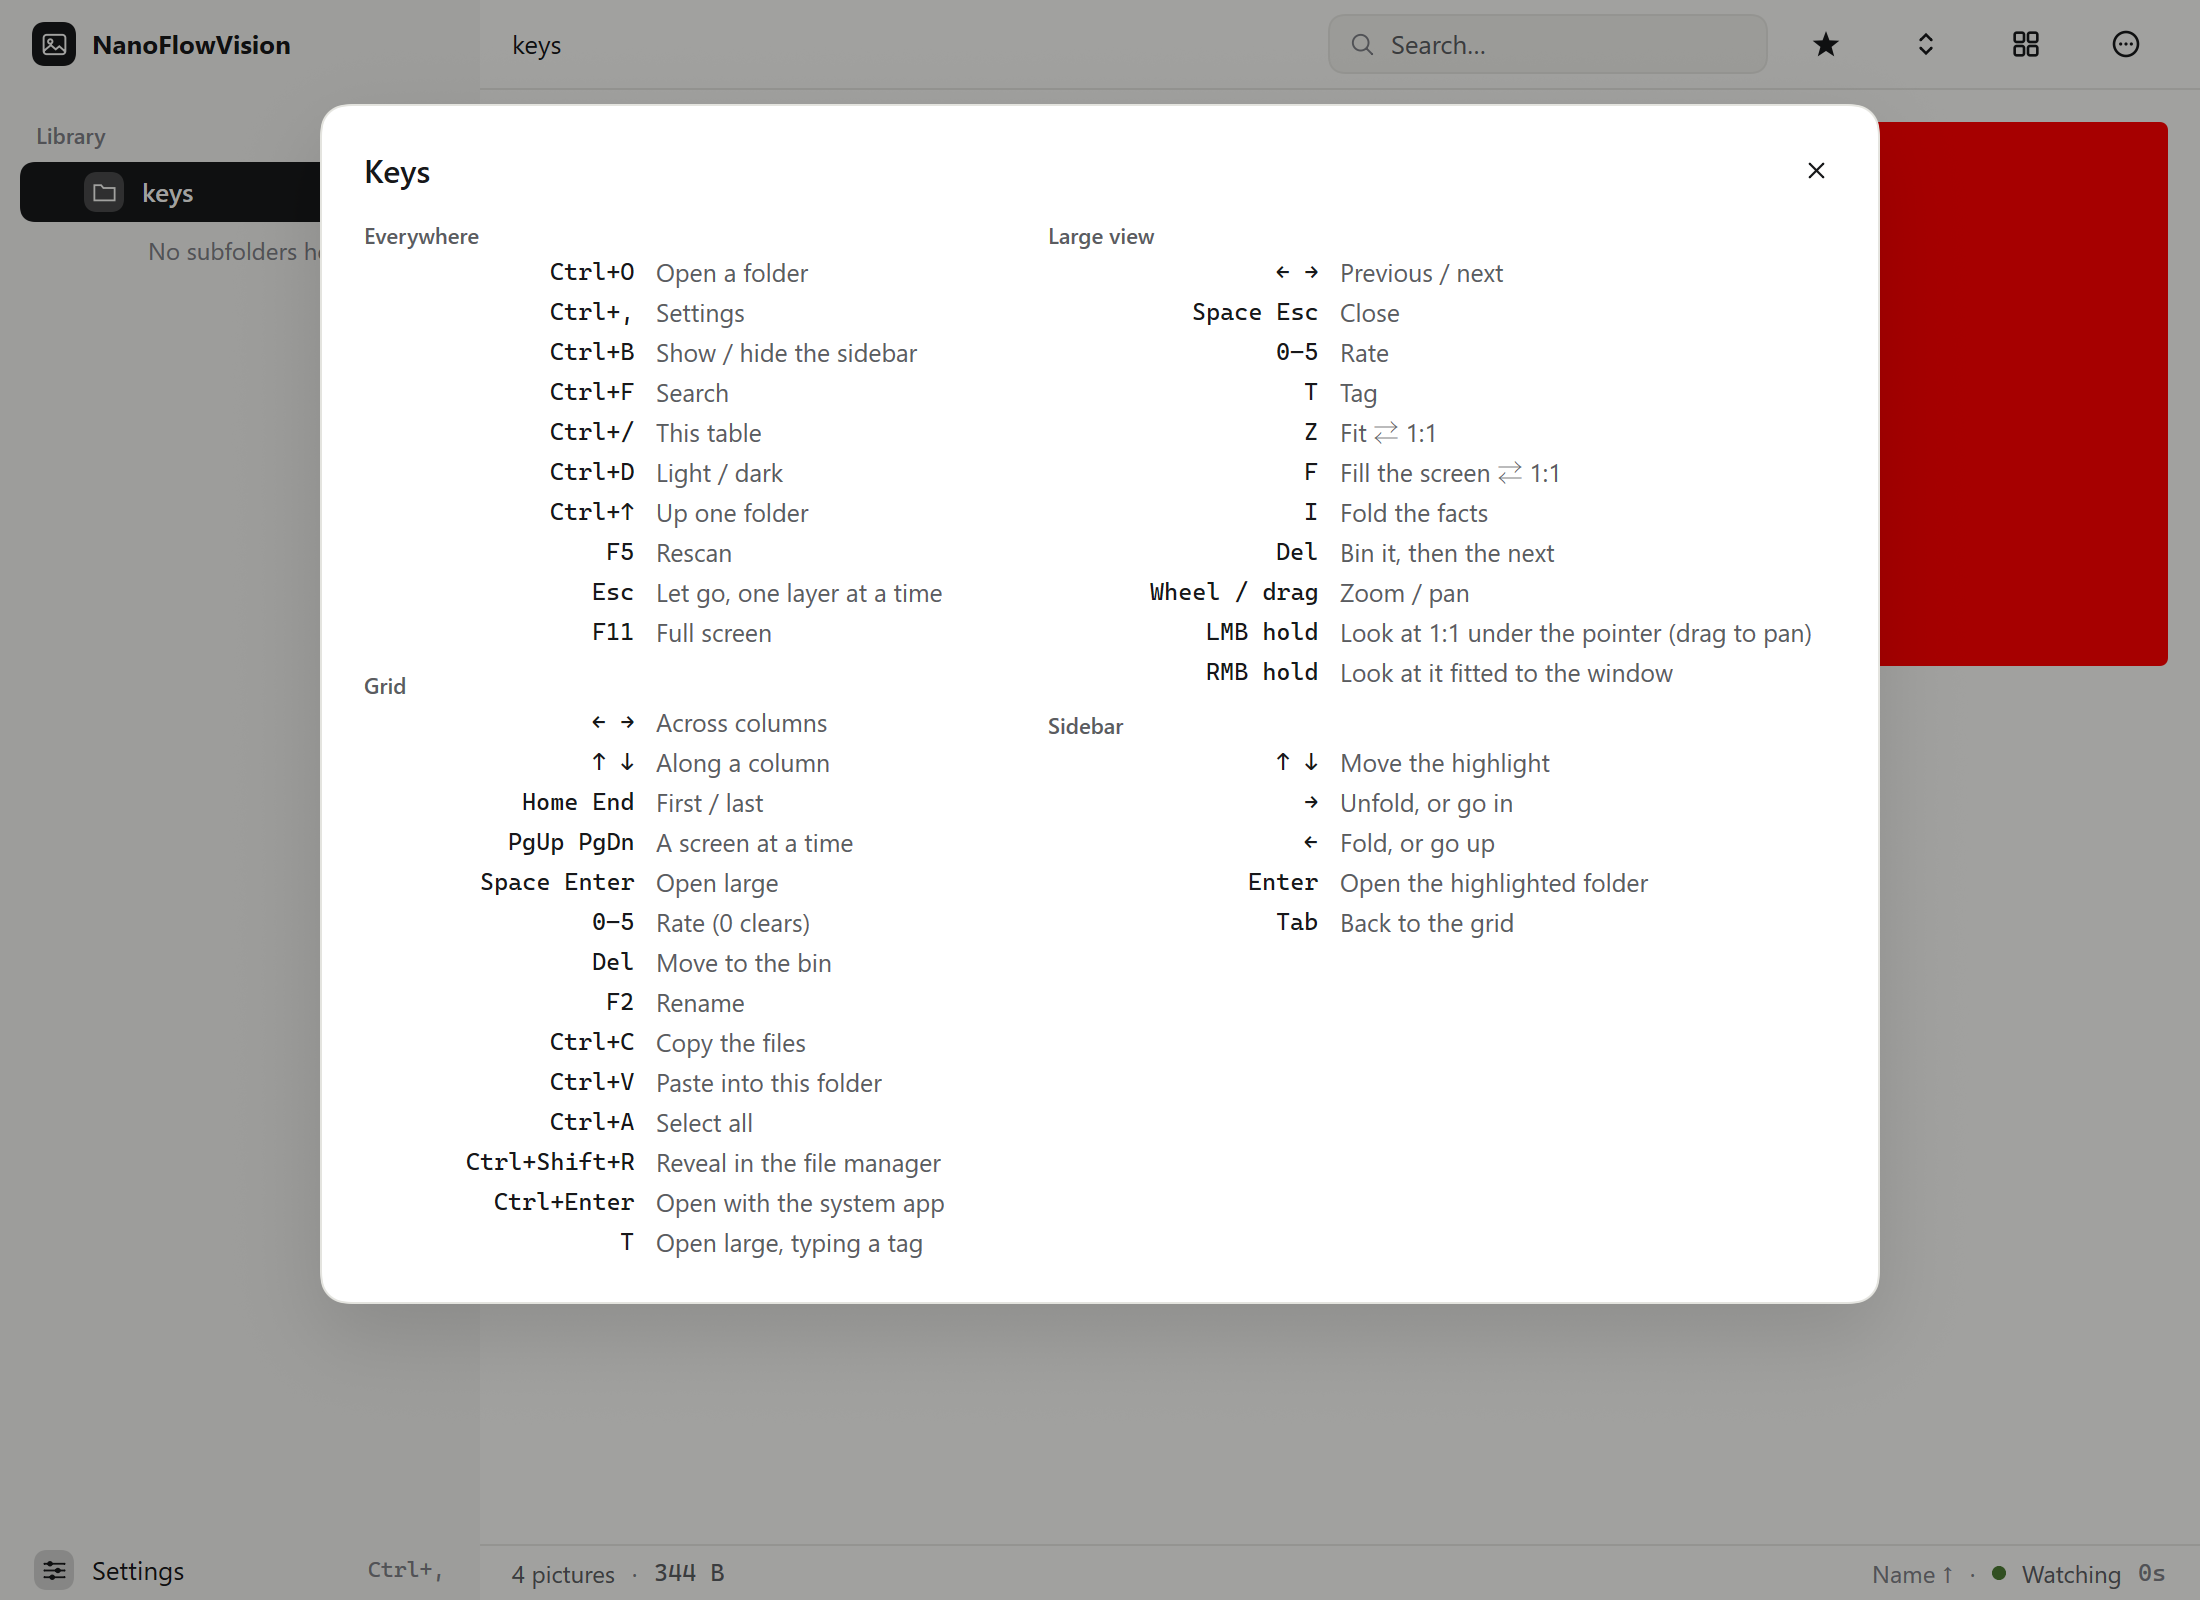
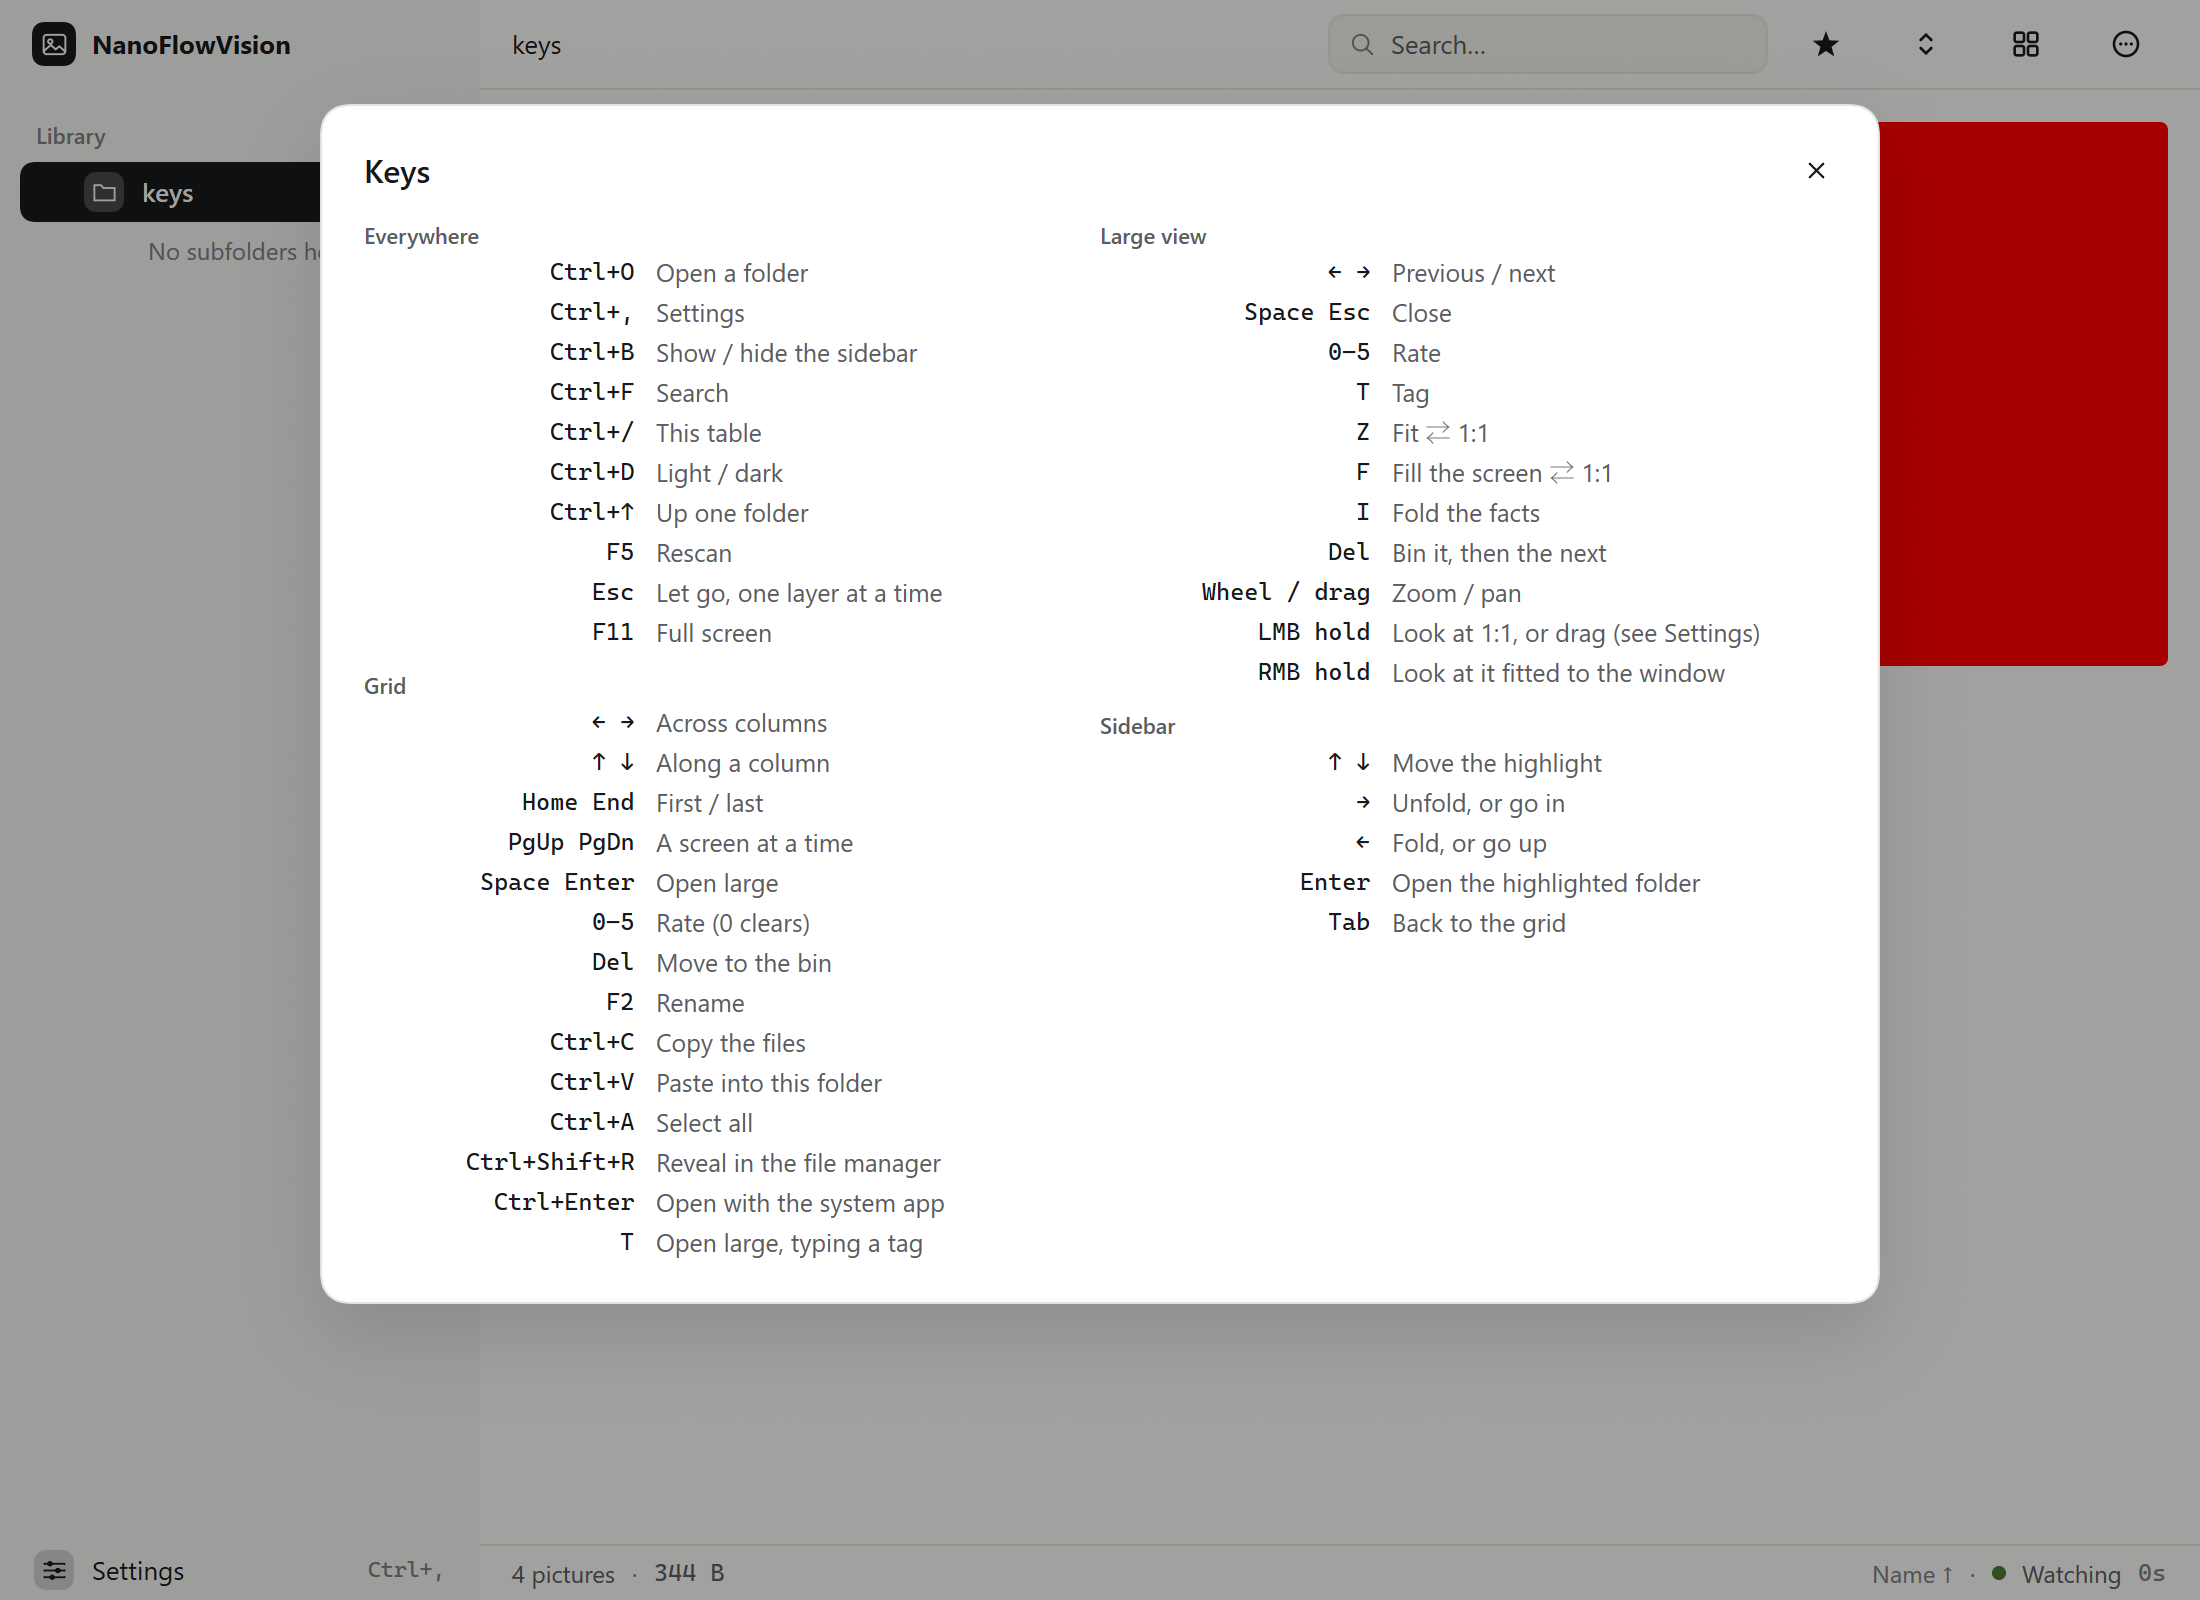
fix: the bar's chips take their clicks through the fade, and the hold is a setting
Two things: the buttons, and the choice they were missing.

The top bar's buttons were losing clicks in a narrow band
- The look stayed out of the bars by asking `chromeLive` -- the chrome at
  more than 0.35 opacity. But the bars are *painted* down to 0.02, and
  between the two the bar is on screen, its chips are clickable, and a
  press on one fell through to the photograph behind it. In full screen,
  where the chrome fades after a moment of quiet, that is most of a
  second: the buttons look alive and are dead.
- It now asks `chromeDrawn`, which is the same question the drawing asks.
- The bar's own height is 44 points whatever its opacity. The room grows
  under the fade -- that is why `topRoom` shrinks -- but the bar does not,
  and using the room's edge as the bar's edge moved the "stay out" line
  up out of the chips.

The left button's hold is now a setting
- Two readings of the same gesture, and they disagree: hold to look at
  1:1 (with a drag inside it), or hold to move the picture without
  changing its size. Both are worth having; nobody can have both at once
  from one button. `config.Hold { look, drag }`, in Settings as
  「大图按住左键 / Left button held, large view」, saved with the rest.
- The right button is not affected: it always fits the picture to the
  window, because it has no second job to share.

Tests: 131 green. Four new ones: the bar's chips take clicks while it is
fading and not only while it is live (the press stays out of the bar for
[…]

diff --git a/docs/redesign/01-ux.md b/docs/redesign/01-ux.md
@@ -210,16 +210,20 @@
 
 - **两个键在任何模式都生效**，包括滚轮缩到 2.5× 这种没有名字的状态。要问的是“原尺寸
   什么样、放回窗口什么样”，这个问题和滚轮把画面留在哪儿无关。
-- **按下即看**。两个键都在按下的那一帧进入查看，不靠时钟。曾经试过“按住静止
-  150ms 才算看”，问题在于静止时没有任何动画，窗口就不画新帧，时钟根本不走，于是
-  要等到下一次鼠标移动才触发——表现为“有时失效、有时很慢”。
+- **左键要看设置**。设置里有一项「大图中按住左键」：**临时 1:1，可拖动**（默认），
+  或**只拖动图片**（不改倍率）。两种都有人要，而它们互相排斥，所以交给读者说。
+  右键不受影响，永远给「适应窗口」。
 - **按住期间可以拖**。查看一旦成立就一直持续到松手，中间手怎么动都不结束它。
   左键 1:1 时画面通常大于房间，手带着画面走是自然的；拖动移动的是锚点的屏幕位置
   （`anchor_mouse`），不是 pan——锚点反解 pan 是每帧都跑的，直接写 pan 会被它
   覆盖回去，写锚点才是让“那一点”跟着手走。
 - **松手回按下前的帧**。查看是一次提问，不是一次决定：拖动过也回退，模式、zoom、
   锚点、pan 全部放回。要让拖动留下来，用户要的是拖动本身，那就不该用查看去做——
-  放大后用左键拖（不在查看时）才是“移了就留在那儿”。
+  放大后用左键拖（不在查看时）才是“移了就留在那儿”。选了「只拖动」时没有查看，
+  按下直接就是拖动，松手就留在原地。
+- **顶栏高度固定 44 点，不跟着淡出缩小**。chrome 淡出时“房间”会变大（fit 跟着扩到
+  整屏），但栏本身画着的时候还是 44 高。曾经拿房间的上边界当栏的边界，淡出中途
+  （alpha 在 0.02–0.35）就会出现一段：栏画着、按钮可见，按下却落到照片上。
 - **按下不必落在像素上**。房间是视图的一部分：刚用滚轮缩过的人，指针常常在照片旁边
   而不是照片上。要求“压在图上”恰好让查看在那种时候失效——3× 的照片铺满房间，随便按
   都行；120% 的照片却可能刚好比指针边缘小几厘米。所以只避开画在照片之上的东西：

diff --git a/docs/redesign/04-history.md b/docs/redesign/04-history.md
@@ -90,6 +90,6 @@
 ## 五、验证方式
 
 - `zig build test`：114 个测试，覆盖行为（断言矩形或状态，不只断言文字存在）。
-- `docs/redesign/shots/`：21 张状态快照，由 `tests_shots.zig` 与 `tests_meta.zig`
+- `docs/redesign/shots/`：22 张状态快照，由 `tests_shots.zig` 与 `tests_meta.zig`
   渲染，`src/shots.zig` 压缩后写入。
 - 界面的旧样子见 `git log`（重新设计之前的琥珀方案没有保留文档，也不需要）。
